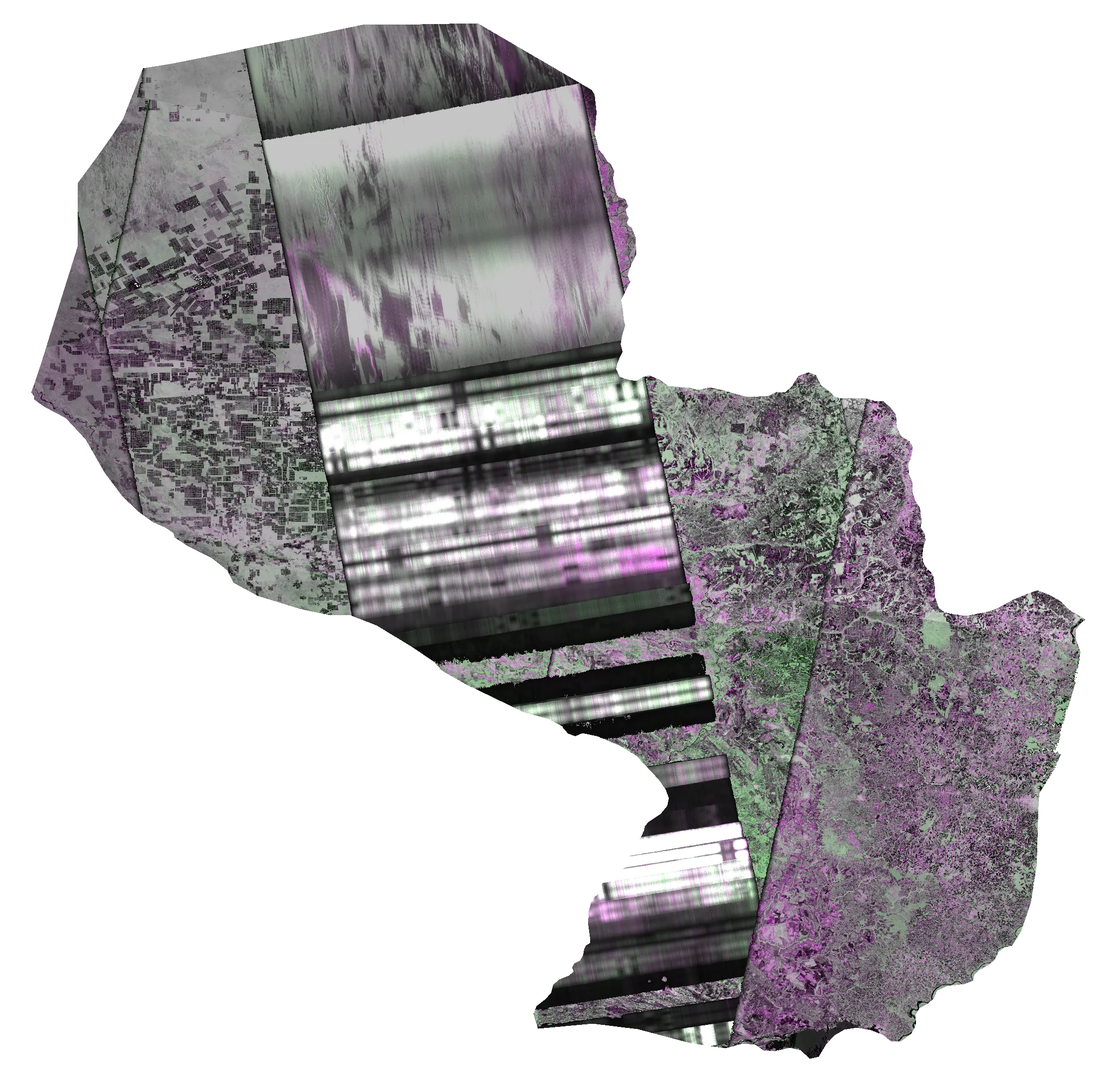
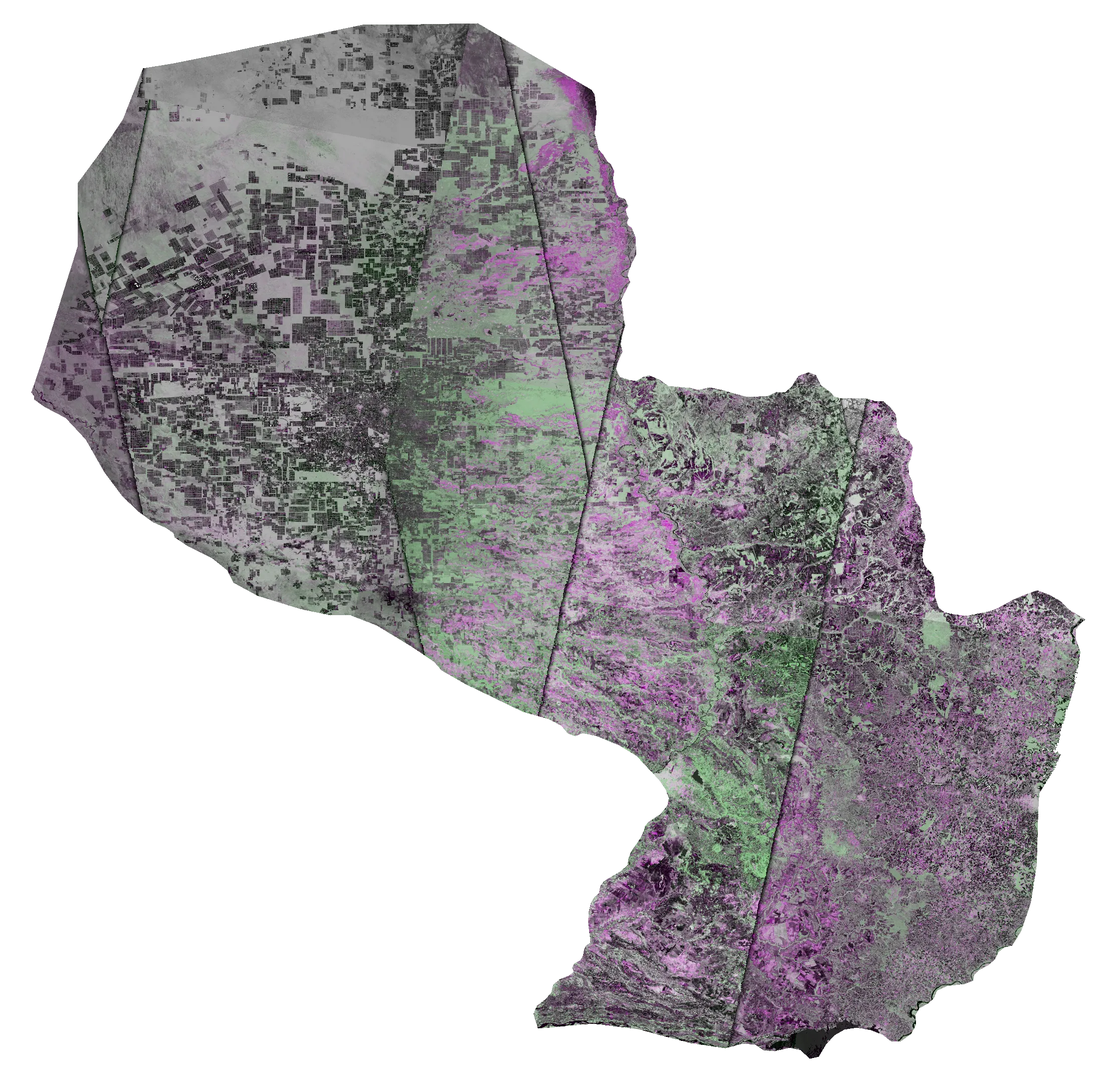
fix(test): July 2026 country mosaic without the corrupted track 60 pass
Test site only. The ASF browse images of the track 60 pass of 2026-07-24
(frames 164-168) are striped and smeared, so the timeline looked broken from
2026-07-07. The July mosaic now takes those frames' last good pass
(2026-06-30); every other mosaic was checked by eye.

Changed region(s): [[0.2164, 0.0, 0.7109, 0.9917]]

diff --git a/pipeline/export/browse_mosaic_july_fix_test.py b/pipeline/export/browse_mosaic_july_fix_test.py
@@ -1,0 +1,38 @@
+# Parts of this file were generated with AI assistance (Claude Code). See docs/AI_USAGE.md
+# TEST SITE ONLY. Same inputs as browse_mosaic_test.py (selection.json, year_all.json, browse PNGs next to it).
+# usage: python browse_mosaic_july_fix_test.py web/public/data/mosaic
+# Rebuild the July 2026 timeline mosaic without the corrupted track 60 pass of 2026-07-24 (all 5 browse images
+# striped / smeared). Each of its frames falls back to its last good pass: 2026-07-12 (frames 164-165) or
+# 2026-06-30 (frames 166-168; no 07-12 product for them).
+import json, os, sys
+import numpy as np
+from PIL import Image
+OUTDIR = sys.argv[1]
+src = open(os.path.join(os.path.dirname(os.path.abspath(__file__)), "browse_mosaic_test.py")).read().split("meta = {")[0]
+sys.argv = [sys.argv[0], OUTDIR]
+exec(src)
+y = json.load(open(os.path.join(HERE, "year_all.json")))
+july = [it for it in sel["monthly"]["2026-07-31"] if not (it["path"] == 60 and it["date"] == "2026-07-24")]
+# the 2026-07-12 pass exists only for frames 164-165 and its browse images do not georeference (residual
+# 0.024-0.074 deg): every frame takes the 2026-06-30 pass
+add = []
+have = set()
+for it in sel["monthly"]["2026-06-30"]:
+    if it["path"] == 60 and it["frame"] not in have:
+        add.append(dict(it, fill=False))
+for a in add:
+    a2 = np.array(Image.open(os.path.join(HERE, "monthly", a["id"] + ".png")).convert("L")).astype(float)
+    nz = a2 > 5
+    r = np.abs(np.diff(a2, axis=0))[nz[1:] & nz[:-1]].mean() / np.abs(np.diff(a2, axis=1))[nz[:, 1:] & nz[:, :-1]].mean()
+    print("replacement", a["frame"], a["date"], "stripe ratio", round(r, 2))
+items = july + add
+r = build("monthly", latest_on_top=True, items=items, name="m_2026-07")
+ds = [p["date"] for p in r["products"]]
+print("frames", len(r["products"]), "skipped", r["skipped"], "coverage", r["coverage_of_paraguay"], "dates", min(ds), max(ds))
+mp = os.path.join(OUTDIR, "mosaic.json")
+meta = json.load(open(mp))
+for t in meta["timeline"]:
+    if t["until"] == "2026-07-31":
+        t.update({"dates": [min(ds), max(ds)], "coverage_of_paraguay": r["coverage_of_paraguay"], "frames": len(r["products"]), "skipped": len(r["skipped"]),
+                  "excluded": "track 60 pass of 2026-07-24 (corrupted browse images); its 5 frames use their last good pass, 2026-06-30"})
+json.dump(meta, open(mp, "w"), indent=1)

diff --git a/docs/AI_USAGE.md b/docs/AI_USAGE.md
@@ -55,3 +55,4 @@ Parts of this file were generated with AI assistance (Claude Code). See docs/AI_
 | 2026-11-15 | `web/src/story/radar.ts`, styles | Claude Code (Claude Opus 5.5) | Cleaner "the radar listens to the forest" figure: two incident beams with arrowheads, echoes drawn as arcs (strength per channel), trees that do not overlap, labels clear of the lines, larger ground titles, taller figure | TODO |
 | 2026-11-15 | **Test branch `test/nisar-paraguay-mosaic` only**: `pipeline/export/browse_mosaic_test.py`, `web/public/data/mosaic/`, `web/src/map/index.ts`, `web/src/map/radar-map.ts`, `web/index.html`, styles, `docs/REFERENCES.md` | Claude Code (Claude Opus 5.5) | Paraguay-wide NISAR before / after quick-look mosaics from ASF GCOV browse images (georeferenced by matching swath corners to the product footprints, brightness-matched, clipped to Paraguay), shown under the zones' radar images in the radar view and before/after; test badge | TODO |
 | 2026-11-15 | **Test branch `test/nisar-paraguay-mosaic` only**: `web/src/map/index.ts` | Claude Code (Claude Opus 5.5) | Before/after opens each clearing zone on the date pair and the spot where the change is easiest to see with the eye (found offline in the site's own radar images: forest-like pixels in the first date that are paddock-like in the second), with a hint to drag the bar; checked with a headless browser | TODO |
+| 2026-11-15 | **Test branch `test/nisar-paraguay-mosaic` only**: `web/public/data/mosaic/m_2026-07.webp`, `mosaic.json`, `pipeline/export/browse_mosaic_july_fix_test.py` | Claude Code (Claude Opus 5.5) | Found that the July 2026 country mosaic (timeline from 2026-07-07) had a striped, smeared band: the 5 ASF browse images of the track 60 pass of 2026-07-24 are corrupted. Rebuilt it without that pass (its frames use their last good pass, 2026-06-30) and checked every other mosaic by eye | TODO |
